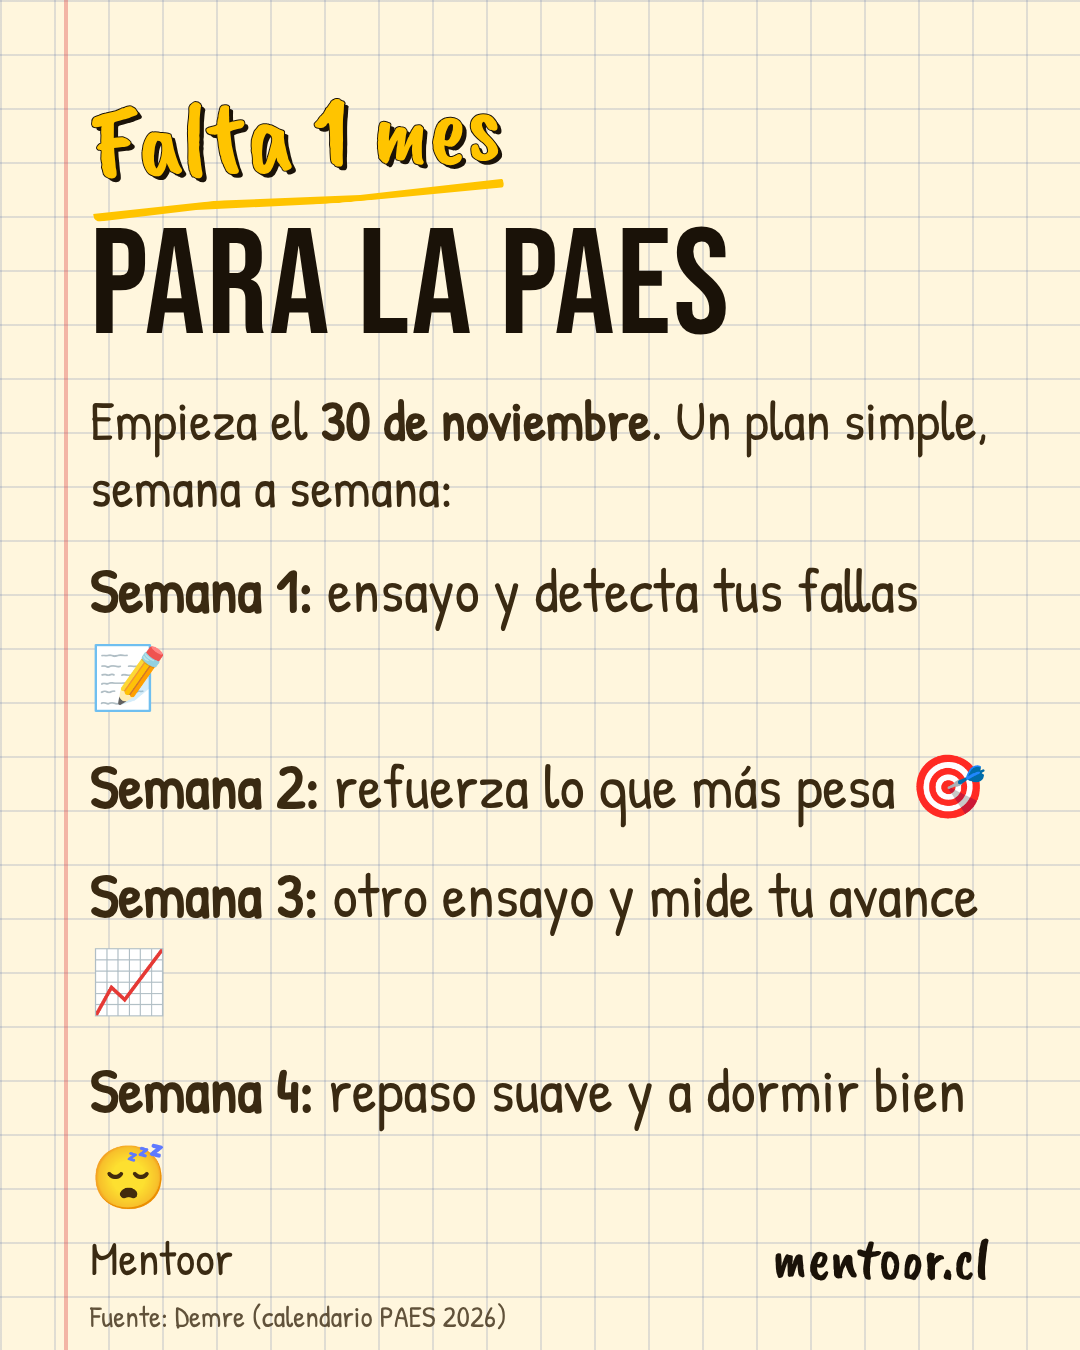
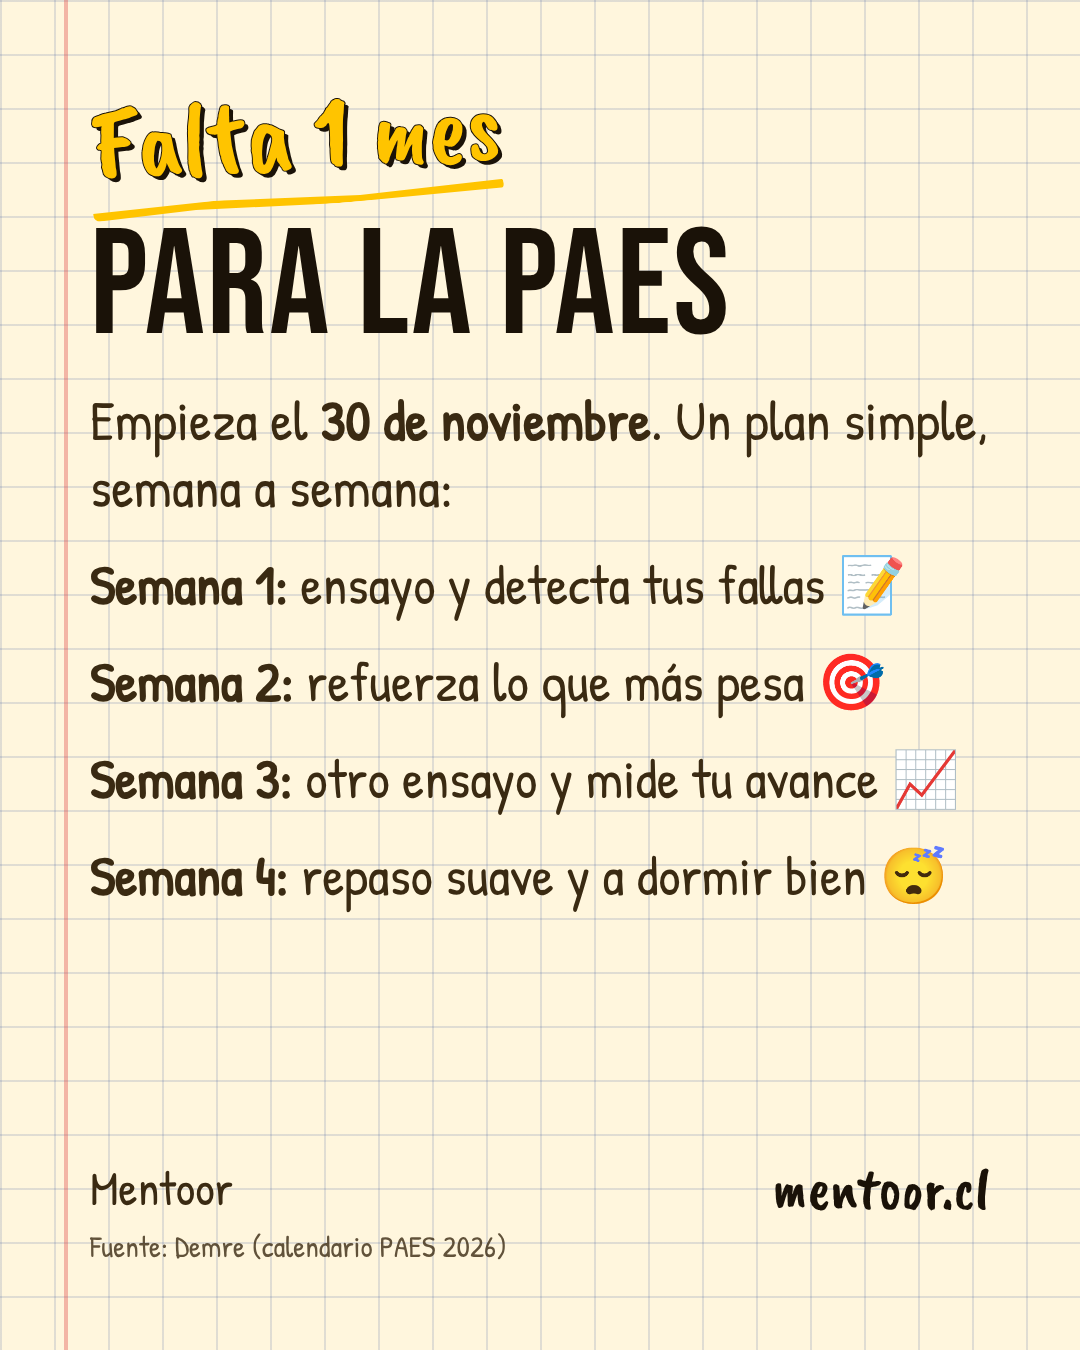
Post 30 oct: ajuste de tamaño
Claude-Session: https://claude.ai/code/session_01XxgZETQjNe2fZRLkA2Ldqu

diff --git a/templates/amiga-1mes.html b/templates/amiga-1mes.html
@@ -3,11 +3,11 @@
 <div class="gancho sub" style="font-size:104px">Falta 1 mes</div>
 <div class="resp" style="font-size:150px;margin-top:4px">para la PAES</div>
 <div class="det" style="margin-top:30px;font-size:56px;line-height:1.2">Empieza el <b>30 de noviembre</b>. Un plan simple, semana a semana:</div>
-<div class="det" style="margin-top:26px;font-size:62px;line-height:1.4">
+<div class="det" style="margin-top:26px;font-size:55px;line-height:1.4">
 <div><b>Semana 1:</b> ensayo y detecta tus fallas 📝</div>
-<div style="margin-top:22px"><b>Semana 2:</b> refuerza lo que más pesa 🎯</div>
-<div style="margin-top:22px"><b>Semana 3:</b> otro ensayo y mide tu avance 📈</div>
-<div style="margin-top:22px"><b>Semana 4:</b> repaso suave y a dormir bien 😴</div></div>
+<div style="margin-top:20px"><b>Semana 2:</b> refuerza lo que más pesa 🎯</div>
+<div style="margin-top:20px"><b>Semana 3:</b> otro ensayo y mide tu avance 📈</div>
+<div style="margin-top:20px"><b>Semana 4:</b> repaso suave y a dormir bien 😴</div></div>
 <div class="firma"><div class="det" style="font-size:48px">Mentoor</div><div class="url">mentoor.cl</div></div>
 <div class="demo">Fuente: Demre (calendario PAES 2026)</div>
 </div></body></html>
